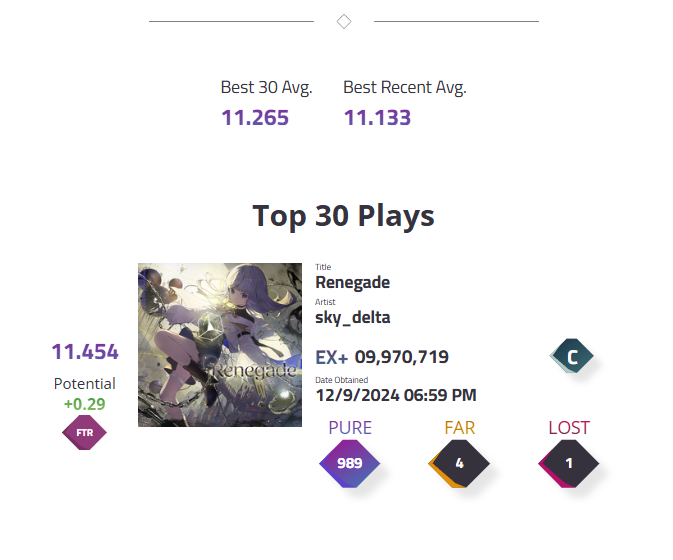
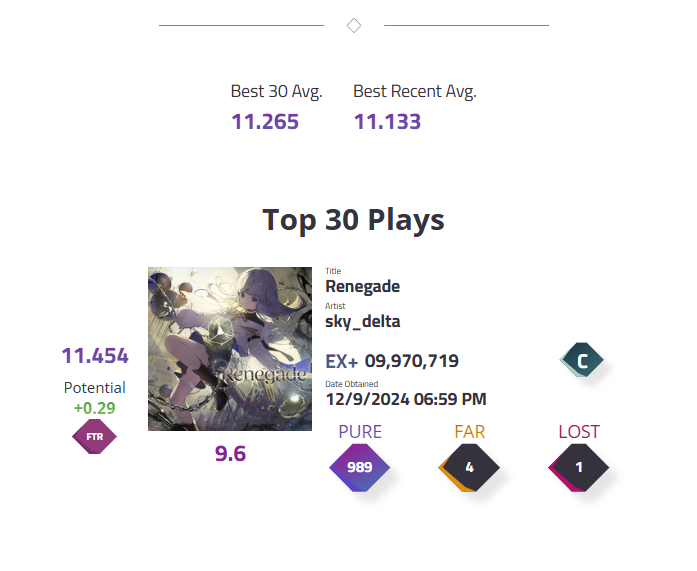
feat: add chart constants

diff --git a/script.js b/script.js
@@ -1,13 +1,15 @@
 // ==UserScript==
 // @name         Arcaea Online Enhancer
 // @namespace    https://github.com/saicaca
-// @version      1.0
+// @version      1.1.0
 // @description  Show the rating of each play and the average rating on the Arcaea Online page.
 // @author       saicaca
 // @match        https://arcaea.lowiro.com/*
 // @homepageURL  https://github.com/saicaca/arcaea-online-enhancer
 // @grant        GM_addStyle
 // @license      MIT
+// @downloadURL  https://update.greasyfork.org/scripts/521374/Arcaea%20Online%20Enhancer.user.js
+// @updateURL    https://update.greasyfork.org/scripts/521374/Arcaea%20Online%20Enhancer.meta.js
 // ==/UserScript==
 
 (function() {
@@ -37,6 +39,8 @@
             child.classList.contains('card')
         );
 
+        // Calculate the average rating of the best 30 scores and the best recent scores
+
         const best30Scores = data.value.best_rated_scores;
         const bestRecentScores = data.value.recent_rated_scores;
 
@@ -56,20 +60,40 @@
             </div>
         `);
 
+        // Add the rating of each play and chart constants
 
         const scores = [...best30Scores, ...bestRecentScores];
 
         for (let i= 0; i < scores.length; i++) {
             let card = cardEls[i];
-            const section = card.querySelector('.section-1');
-            if (section) {
-                section.insertAdjacentHTML('afterbegin', `
+            const section1 = card.querySelector('.section-1');
+            if (section1) {
+                section1.insertAdjacentHTML('afterbegin', `
                     <div class="aoe-rating-text">${scores[i].rating.toFixed(3)}</div>
+                `);
+            }
+
+            const section2 = card.querySelector('.section-2');
+            if (section2) {
+                let chartConst = 0;
+                if (scores[i].score >= 9800000) {
+                    chartConst = (scores[i].rating - 1 - (scores[i].score - 9800000) / 200000).toFixed(1);
+                } else {
+                    chartConst = (scores[i].rating - (scores[i].score - 9500000) / 300000).toFixed(1);
+                }
+
+                const constColor = chartConst >= 11 ? '#FF9500' :
+                    chartConst >= 10 ? '#E12A55' :
+                    chartConst >= 9 ? '#882299' :
+                    chartConst >= 8 ? '#2BB36B' :
+                        '#1082BE';
+
+                section2.insertAdjacentHTML('beforeend', `
+                    <div class="aoe-constant-text" style="color: ${constColor}">${chartConst}</div>
                 `);
             }
         }
     }
-
 })();
 
 GM_addStyle(`
@@ -89,6 +113,16 @@ GM_addStyle(`
         background: linear-gradient(to bottom, #882299, #5566AA);
         -webkit-background-clip: text;
         -webkit-text-fill-color: transparent;
+        font-size: 18px;
+    }
+    .card .section-2 {
+        flex-direction: column;
+        gap: 4px;
+        align-items: center !important;
+    }
+    .aoe-constant-text {
+        font-family: Titillium Web;
+        font-weight: bold;
         font-size: 18px;
     }
 `);

diff --git a/README.md b/README.md
@@ -1,8 +1,7 @@
 https://greasyfork.org/en/scripts/521374-arcaea-online-enhancer
 
-https://github.com/saicaca/arcaea-online-enhancer
-
-- Display the rating of each play
-- Display the average rating of best 30 and best recent plays
+- Show the rating of each play
+- Show the average rating of the best 30 and the best recent plays
+- Show the chart constants
 
 ![Screenshot](screenshot.png)
